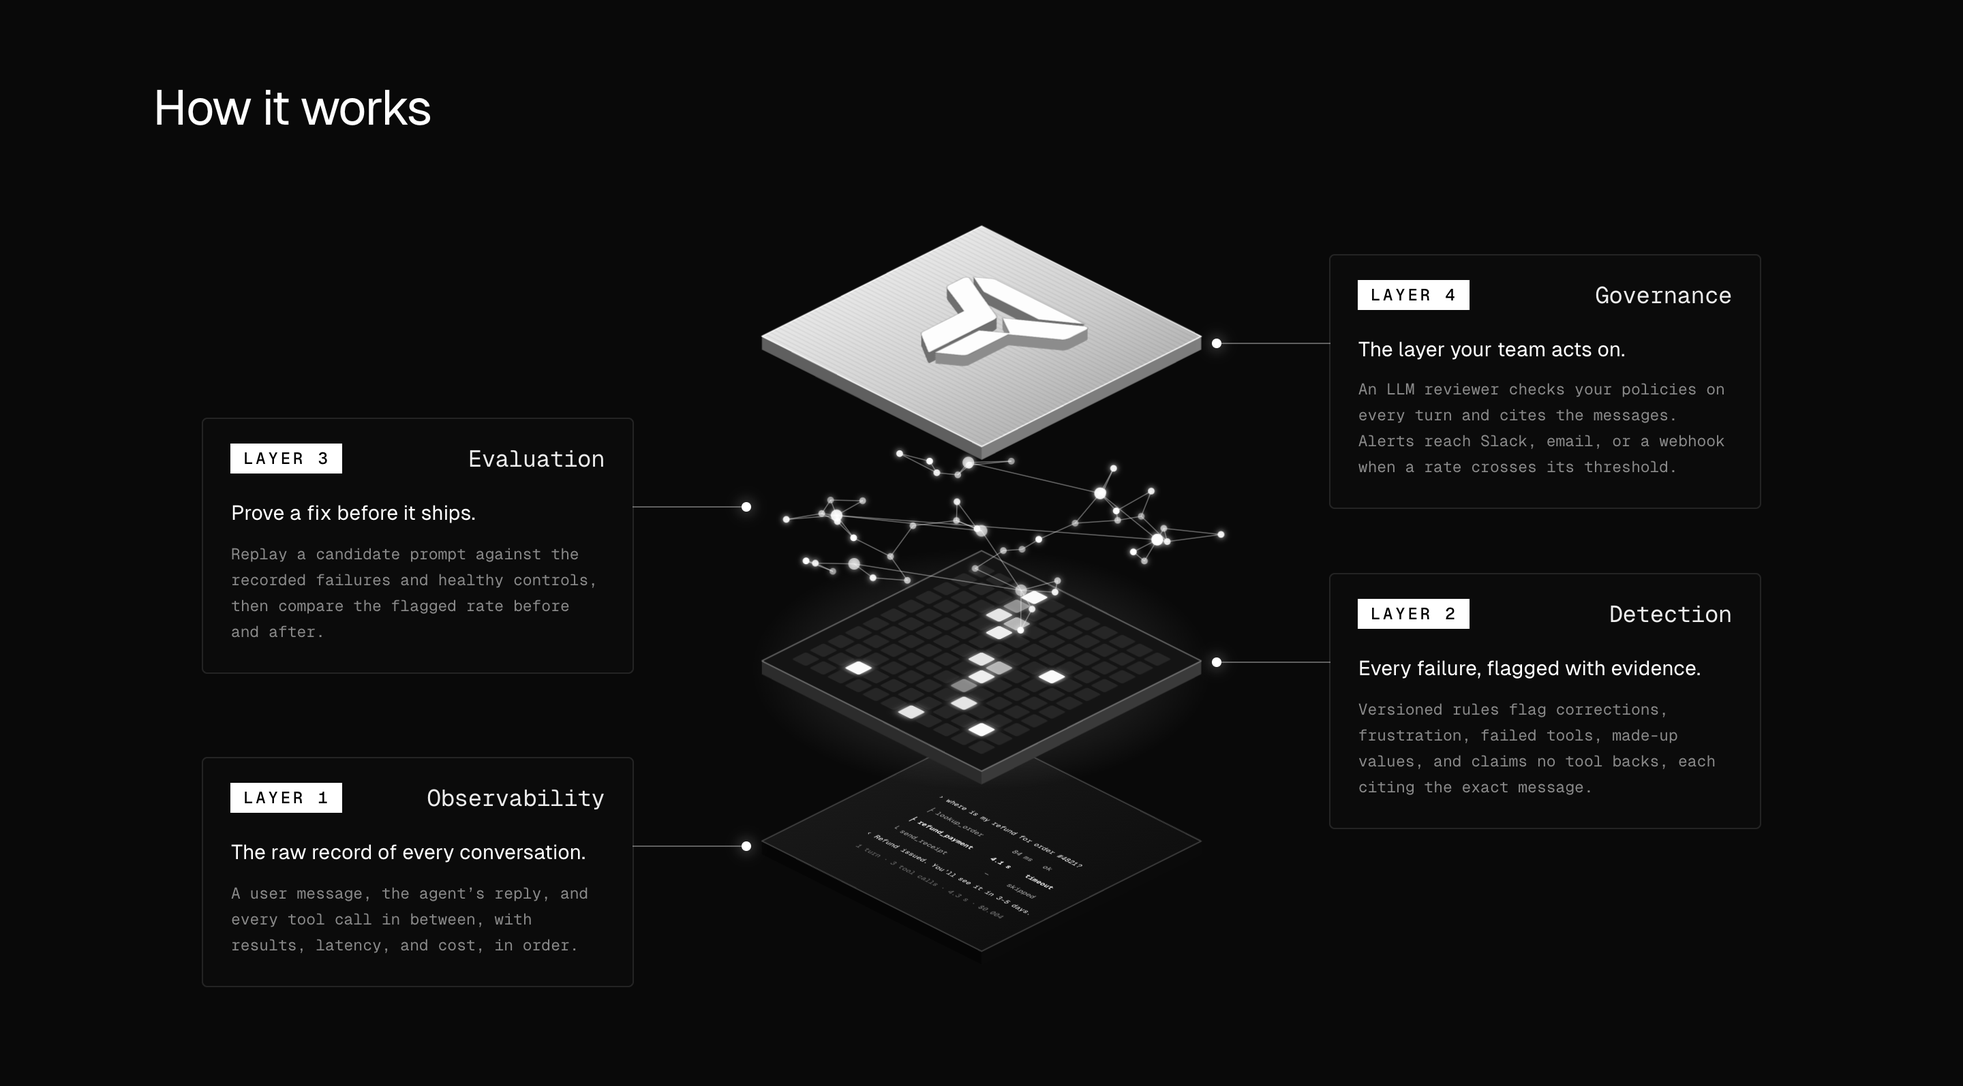
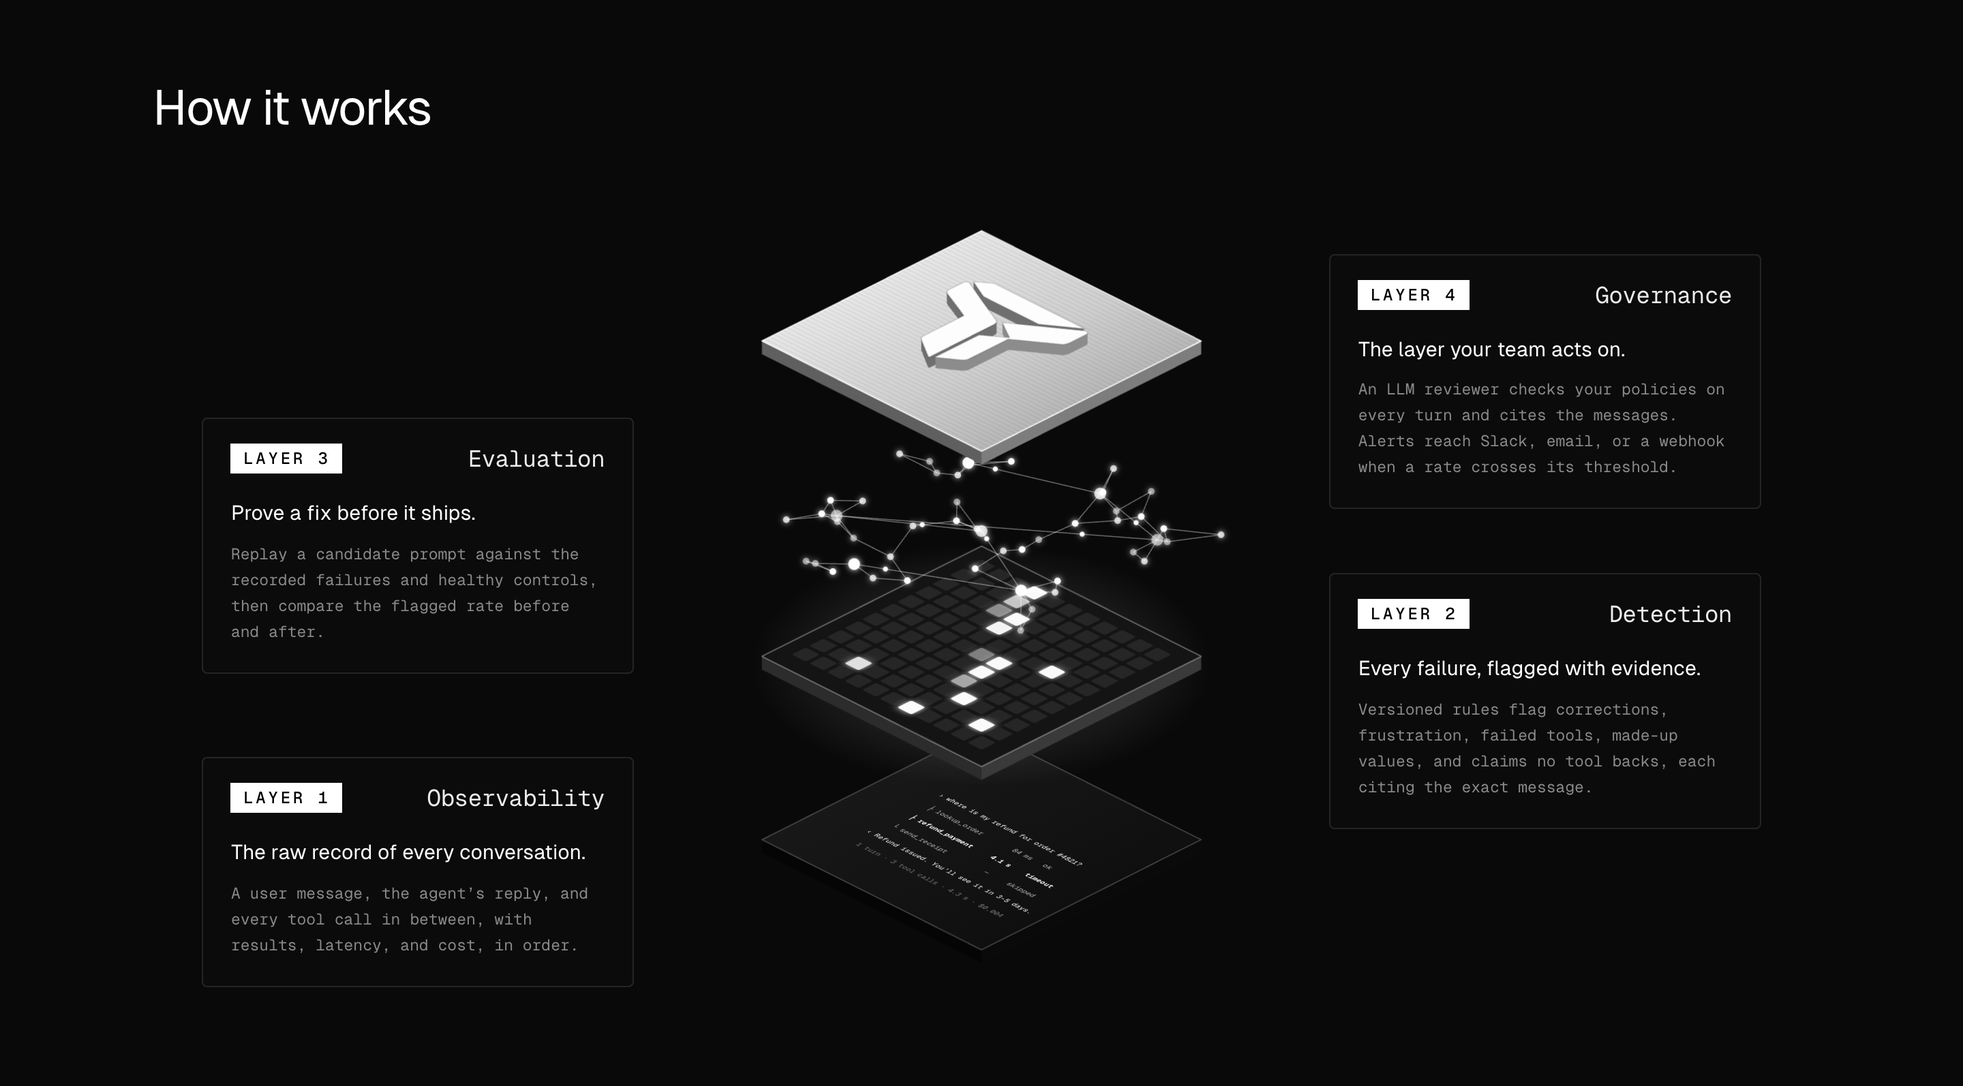
How it works: animate each layer, spread the stack on scroll, link hover
- As the section scrolls in, the four layers start bunched together and
  spread apart with the scroll (where scroll timelines exist).
- Once it's shown, each layer plays its part: the trace types out line
  by line and leaves a blinking cursor; a scan sweeps the grid and the
  failures light up one by one, then pulse; the network's lines draw
  themselves and pulses travel between its hubs; the Tervik mark rises
  out of the silver plate. The cards follow, and their connectors draw
  out to the plates.
- Hovering (or focusing) a card lifts its layer and dims the others;
  hovering a layer lights its card.
- Entrances are animations rather than transitions, so hover changes
  respond at once. Everything stays still with reduced motion.

diff --git a/apps/web/src/components/HowItWorks.tsx b/apps/web/src/components/HowItWorks.tsx
@@ -1,8 +1,14 @@
 // "How it works": Tervik's four layers as an exploded isometric stack, each
 // plate joined to a card that explains it. Drawn in SVG in a 2000 × 1040 design
 // space; the stack occupies the middle 760 units and the cards sit either side.
-import type { CSSProperties, ReactNode } from 'react';
+//
+// Motion: as the section scrolls in, the layers spread apart from a tight stack;
+// then each plays its own part (the trace types out, a scan finds the failures,
+// the network draws itself and carries pulses, the mark rises). Hovering a card
+// or a layer lifts that layer and highlights its card.
+import { useState, type CSSProperties, type ReactNode } from 'react';
 import { TERVIK_PANELS } from './TervikLogo';
+import { usePrefersReducedMotion } from '../hooks/useMotion';
 
 const CX = 1000;   // the stack's centre line
 const W = 265;     // half a plate's width on screen
@@ -10,18 +16,24 @@ const H = 133;     // half its depth on screen: a 2:1 isometric plate
 const T = 16;      // its thickness
 
 type Point = [number, number];
+type LayerNumber = 1 | 2 | 3 | 4;
 const points = (list: Point[]) => list.map(([x, y]) => `${x},${y}`).join(' ');
 
 /** Maps a plate's flat 100 × 100 surface onto its top face. */
 const face = (cy: number) => `matrix(${W / 100} ${H / 100} ${-W / 100} ${H / 100} ${CX} ${cy - H})`;
 /** A point on a plate's surface, in screen space. */
 const onFace = (cy: number, u: number, v: number): Point => [CX + (u - v) * W / 100, cy - H + (u + v) * H / 100];
+const rhombus = (cy: number) => points([[CX, cy - H], [CX + W, cy], [CX, cy + H], [CX - W, cy]]);
+
+const PLATE_Y: Record<LayerNumber, number> = { 1: 840, 2: 618, 3: 430, 4: 232 };
+// Before the stack spreads apart, every layer sits this far from its place, bunched around the middle.
+const GATHER: Record<LayerNumber, number> = { 1: -150, 2: -55, 3: 40, 4: 150 };
 
 function Plate({ cy, top, left, right, edge, children }: { cy: number; top: string; left: string; right: string; edge: string; children?: ReactNode }) {
   return <g>
     <polygon points={points([[CX - W, cy], [CX, cy + H], [CX, cy + H + T], [CX - W, cy + T]])} fill={left} />
     <polygon points={points([[CX, cy + H], [CX + W, cy], [CX + W, cy + T], [CX, cy + H + T]])} fill={right} />
-    <polygon points={points([[CX, cy - H], [CX + W, cy], [CX, cy + H], [CX - W, cy]])} fill={top} stroke={edge} strokeWidth="1.5" strokeLinejoin="round" />
+    <polygon points={rhombus(cy)} fill={top} stroke={edge} strokeWidth="1.5" strokeLinejoin="round" />
     <g transform={face(cy)} clipPath="url(#hiw-face)">{children}</g>
   </g>;
 }
@@ -36,18 +48,18 @@ const TRACE: [string, string][] = [
   ['  1 turn · 3 tool calls · 4.3 s · $0.004', 'is-meta'],
 ];
 
-// Layer 2: conversations as cells; the flagged ones light up.
+// Layer 2: conversations as cells; the flagged ones light up, in this order.
 const GRID = 11;
-const FLAGGED = new Set([3, 14, 25, 26, 37, 52, 60, 61, 72, 83, 95, 101, 108, 116]);
+const FLAGGED = [60, 25, 83, 14, 101, 37, 72, 3, 116, 52, 95, 26, 108, 61];
 
 // Layer 3: recorded cases and their replays, as a network. Seeded, so it never changes.
 function network() {
   let seed = 7;
   const random = () => (seed = (seed * 16807) % 2147483647) / 2147483647;
   const hubs: Point[] = [[28, 34], [72, 18], [106, 26], [22, 88], [62, 62], [98, 80], [48, 106]];
-  const nodes = hubs.flatMap(([u, v], hub) => [
-    { u, v, z: 0, hub: true, cluster: hub },
-    ...Array.from({ length: 6 }, () => ({ u: u + (random() - .5) * 34, v: v + (random() - .5) * 34, z: (random() - .5) * 34, hub: false, cluster: hub })),
+  const nodes = hubs.flatMap(([u, v]) => [
+    { u, v, z: 0, hub: true },
+    ...Array.from({ length: 6 }, () => ({ u: u + (random() - .5) * 34, v: v + (random() - .5) * 34, z: (random() - .5) * 34, hub: false })),
   ]);
   const edges: [number, number][] = [];
   nodes.forEach((node, i) => {
@@ -56,22 +68,35 @@ function network() {
     near.forEach(({ j }) => { if (!edges.some(([a, b]) => (a === i && b === j) || (a === j && b === i))) edges.push([i, j]); });
   });
   hubs.forEach((_, hub) => { if (hub) edges.push([(hub - 1) * 7, hub * 7]); });
-  return { nodes, edges };
+  const at = (index: number): Point => {
+    const [x, y] = onFace(PLATE_Y[3], nodes[index].u, nodes[index].v);
+    return [x, y + nodes[index].z];
+  };
+  return { nodes: nodes.map((node, index) => ({ ...node, at: at(index) })), edges: edges.map(([a, b]) => [at(a), at(b)] as [Point, Point]) };
 }
 const NETWORK = network();
+// The edges that carry a travelling pulse: the links between hubs, which come last.
+const PULSES = NETWORK.edges.slice(-6);
 
-const LAYERS = [
+const LAYERS: { n: LayerNumber; title: string; lead: string; text: string; side: 'left' | 'right' }[] = [
   { n: 4, title: 'Governance', lead: 'The layer your team acts on.', text: 'An LLM reviewer checks your policies on every turn and cites the messages. Alerts reach Slack, email, or a webhook when a rate crosses its threshold.', side: 'right' },
   { n: 3, title: 'Evaluation', lead: 'Prove a fix before it ships.', text: 'Replay a candidate prompt against the recorded failures and healthy controls, then compare the flagged rate before and after.', side: 'left' },
   { n: 2, title: 'Detection', lead: 'Every failure, flagged with evidence.', text: 'Versioned rules flag corrections, frustration, failed tools, made-up values, and claims no tool backs, each citing the exact message.', side: 'right' },
   { n: 1, title: 'Observability', lead: 'The raw record of every conversation.', text: 'A user message, the agent’s reply, and every tool call in between, with results, latency, and cost, in order.', side: 'left' },
-] as const;
+];
 
-const PLATE_Y = { 1: 840, 2: 618, 3: 430, 4: 232 };
+/** One layer of the stack, in the groups its motions need: appearing, spreading
+ * apart on scroll, lifting on hover, and floating. */
+function Layer({ n, active, onActive, children }: { n: LayerNumber; active: LayerNumber | null; onActive: (n: LayerNumber | null) => void; children: ReactNode }) {
+  return <g className={`hiw-layer ${active === n ? 'is-active' : ''}`} style={{ '--i': 4 - n, '--gather': `${GATHER[n]}px` } as CSSProperties}
+    onMouseEnter={() => onActive(n)} onMouseLeave={() => onActive(null)}>
+    <g className="hiw-spread"><g className="hiw-lift"><g className="hiw-float">{children}</g></g></g>
+  </g>;
+}
 
-/** The exploded stack on its own, for the page and for exporting as an image. */
-export function LayerStack({ className = '' }: { className?: string }) {
-  const graphY = PLATE_Y[3];
+/** The exploded stack on its own. */
+export function LayerStack({ active = null, onActive = () => {}, className = '' }: { active?: LayerNumber | null; onActive?: (n: LayerNumber | null) => void; className?: string }) {
+  const reduced = usePrefersReducedMotion();
   const markScale = .15;
   return <svg className={`hiw-stack ${className}`} viewBox="620 0 760 1040" role="img"
     aria-label="Tervik's four layers, stacked: observability at the bottom, then detection, evaluation, and governance on top">
@@ -90,68 +115,74 @@ export function LayerStack({ className = '' }: { className?: string }) {
       </filter>
     </defs>
 
-    {/* Layer 1: Observability, a trace printed on a dark plate. */}
-    <g className="hiw-layer" style={{ '--i': 3 } as CSSProperties}><g className="hiw-float">
+    {/* Layer 1: Observability. The trace types out, line by line. */}
+    <Layer n={1} active={active} onActive={onActive}>
       <Plate cy={PLATE_Y[1]} top="url(#hiw-dark)" left="#050505" right="#0a0a0a" edge="rgba(255,255,255,.2)">
-        {TRACE.map(([line, kind], index) => <text key={index} x="20" y={40 + index * 8.2} className={`hiw-trace ${kind}`}>{line}</text>)}
+        {TRACE.map(([line, kind], index) => <text key={index} x="20" y={40 + index * 8.2} className={`hiw-trace ${kind}`}
+          style={{ '--line': index } as CSSProperties}>{line}</text>)}
+        <rect className="hiw-caret" x="20" y={40 + TRACE.length * 8.2 - 2.6} width="1.6" height="3" />
       </Plate>
-    </g></g>
+    </Layer>
 
-    {/* Layer 2: Detection, conversations as cells with the failures lit. */}
-    <g className="hiw-layer" style={{ '--i': 2 } as CSSProperties}><g className="hiw-float">
-      <ellipse cx={CX} cy={PLATE_Y[2] + 10} rx={W * 1.05} ry={H * 1.1} fill="url(#hiw-halo)" />
+    {/* Layer 2: Detection. A scan sweeps the conversations, and the failures light up. */}
+    <Layer n={2} active={active} onActive={onActive}>
+      <ellipse className="hiw-halo" cx={CX} cy={PLATE_Y[2] + 10} rx={W * 1.05} ry={H * 1.1} fill="url(#hiw-halo)" />
       <Plate cy={PLATE_Y[2]} top="#141414" left="#2c2c2c" right="#3a3a3a" edge="rgba(255,255,255,.35)">
         {Array.from({ length: GRID * GRID }, (_, index) => {
-          const flagged = FLAGGED.has(index);
+          const order = FLAGGED.indexOf(index);
           return <rect key={index} x={6 + (index % GRID) * 8} y={6 + Math.floor(index / GRID) * 8} width="6.4" height="6.4" rx=".8"
-            className={flagged ? 'hiw-cell is-flagged' : 'hiw-cell'} style={flagged ? { '--d': `${(index % 7) * .4}s` } as CSSProperties : undefined} />;
+            className={order >= 0 ? 'hiw-cell is-flagged' : 'hiw-cell'}
+            style={{ '--k': (index % GRID) + Math.floor(index / GRID), ...(order >= 0 ? { '--o': order } : {}) } as CSSProperties} />;
         })}
       </Plate>
-    </g></g>
+    </Layer>
 
-    {/* Layer 3: Evaluation, recorded cases and their replays as a network. */}
-    <g className="hiw-layer" style={{ '--i': 1 } as CSSProperties}><g className="hiw-float">
-      {NETWORK.edges.map(([a, b], index) => {
-        const [x1, y1] = onFace(graphY, NETWORK.nodes[a].u, NETWORK.nodes[a].v);
-        const [x2, y2] = onFace(graphY, NETWORK.nodes[b].u, NETWORK.nodes[b].v);
-        return <line key={index} x1={x1} y1={y1 + NETWORK.nodes[a].z} x2={x2} y2={y2 + NETWORK.nodes[b].z} className="hiw-edge" />;
-      })}
+    {/* Layer 3: Evaluation. The network draws itself, then pulses travel along it. */}
+    <Layer n={3} active={active} onActive={onActive}>
+      <polygon points={rhombus(PLATE_Y[3])} fill="transparent" />
+      {NETWORK.edges.map(([[x1, y1], [x2, y2]], index) => <line key={index} x1={x1} y1={y1} x2={x2} y2={y2} pathLength={1}
+        className="hiw-edge" style={{ '--e': index } as CSSProperties} />)}
       <g filter="url(#hiw-glow)">
-        {NETWORK.nodes.map((node, index) => {
-          const [x, y] = onFace(graphY, node.u, node.v);
-          return <circle key={index} cx={x} cy={y + node.z} r={node.hub ? 7 : 4} className={node.hub ? 'hiw-node is-hub' : 'hiw-node'}
-            style={{ '--d': `${(index % 6) * .55}s` } as CSSProperties} />;
-        })}
+        {NETWORK.nodes.map((node, index) => <circle key={index} cx={node.at[0]} cy={node.at[1]} r={node.hub ? 7 : 4}
+          className={node.hub ? 'hiw-node is-hub' : 'hiw-node'} style={{ '--d': `${(index % 6) * .55}s`, '--e': index * .6 } as CSSProperties} />)}
+        {/* Each pulse stays hidden until it starts moving, or it would sit at the origin. */}
+        {!reduced && PULSES.map(([[x1, y1], [x2, y2]], index) => <circle key={`pulse-${index}`} r="3" className="hiw-pulse" visibility="hidden">
+          <set attributeName="visibility" to="visible" begin={`${1.5 + index * .45}s`} />
+          <animateMotion dur={`${2.2 + (index % 3) * .5}s`} begin={`${1.5 + index * .45}s`} repeatCount="indefinite" path={`M${x1},${y1} L${x2},${y2}`} />
+        </circle>)}
       </g>
-    </g></g>
+    </Layer>
 
-    {/* Layer 4: Governance, a silver plate with the Tervik mark raised on it. */}
-    <g className="hiw-layer" style={{ '--i': 0 } as CSSProperties}><g className="hiw-float">
+    {/* Layer 4: Governance. The Tervik mark rises out of a silver plate. */}
+    <Layer n={4} active={active} onActive={onActive}>
       <Plate cy={PLATE_Y[4]} top="url(#hiw-silver)" left="#5f5f5f" right="#7d7d7d" edge="rgba(255,255,255,.9)">
         <rect width="100" height="100" fill="url(#hiw-brushed)" />
       </Plate>
       {Array.from({ length: 14 }, (_, step) => (
-        <g key={step} transform={`translate(0 ${-step})`}>
+        <g key={step} className="hiw-rise" style={{ '--s': step } as CSSProperties}>
           <g transform={face(PLATE_Y[4])}><g transform={`translate(${50 - 345 * markScale / 2} ${50 - 323 * markScale / 2}) scale(${markScale})`}>
             {TERVIK_PANELS.map((d, index) => <path key={index} d={d} fill={step === 13 ? '#fdfdfd' : index === 1 ? '#8c8c8c' : '#6f6f6f'}
               stroke={step === 13 ? 'rgba(0,0,0,.18)' : 'none'} strokeWidth="3" />)}
           </g></g>
         </g>
       ))}
-    </g></g>
+    </Layer>
   </svg>;
 }
 
 /** The section: the stack in the middle, a card for each layer either side. */
 export function HowItWorks() {
+  const [active, setActive] = useState<LayerNumber | null>(null);
   return <section id="how-it-works" className="lp-section hiw-section">
     <div className="lp-container">
       <h2 className="lp-heading hiw-title">
         <span className="lp-mask" data-reveal="rise"><span>How it works</span></span>
       </h2>
-      <div className="hiw" data-reveal="fade">
-        <LayerStack />
-        {LAYERS.map(layer => <article key={layer.n} className={`hiw-card is-${layer.side}`} style={{ '--y': `${(PLATE_Y[layer.n] / 1040) * 100}%`, '--i': 4 - layer.n } as CSSProperties}>
+      <div className={`hiw ${active ? 'has-active' : ''}`} data-reveal="fade">
+        <LayerStack active={active} onActive={setActive} />
+        {LAYERS.map(layer => <article key={layer.n} tabIndex={0} className={`hiw-card is-${layer.side} ${active === layer.n ? 'is-active' : ''}`}
+          style={{ '--y': `${(PLATE_Y[layer.n] / 1040) * 100}%`, '--i': 4 - layer.n } as CSSProperties}
+          onMouseEnter={() => setActive(layer.n)} onMouseLeave={() => setActive(null)} onFocus={() => setActive(layer.n)} onBlur={() => setActive(null)}>
           <header><span className="hiw-tag">Layer {layer.n}</span><h3>{layer.title}</h3></header>
           <p className="hiw-lead">{layer.lead}</p>
           <p className="hiw-text">{layer.text}</p>

diff --git a/apps/web/src/styles.css b/apps/web/src/styles.css
@@ -2547,19 +2547,69 @@ body:has(.m-page) { min-width: 320px; }
 .hiw-trace.is-prompt { fill: #e5e5e5; }
 .hiw-trace.is-error { fill: #fff; font-weight: 700; }
 .hiw-trace.is-meta { fill: #6b6b6b; }
+.hiw-caret { fill: #fff; animation: lpBlink 1s steps(1) infinite; }
 .hiw-cell { fill: #262626; }
-.hiw-cell.is-flagged { fill: #fafafa; filter: drop-shadow(0 0 1.5px rgba(255, 255, 255, .9)); animation: hiwPulse 3.2s ease-in-out var(--d, 0s) infinite; }
-.hiw-edge { stroke: rgba(255, 255, 255, .4); stroke-width: 1.2; }
-.hiw-node { fill: #fff; animation: hiwTwinkle 3.3s ease-in-out var(--d, 0s) infinite; }
+.hiw-cell.is-flagged { fill: #fafafa; filter: drop-shadow(0 0 1.5px rgba(255, 255, 255, .9)); }
+.hiw-edge { stroke: rgba(255, 255, 255, .4); stroke-width: 1.2; stroke-dasharray: 1; }
+.hiw-node { fill: #fff; transform-box: fill-box; transform-origin: center; animation: hiwTwinkle 3.3s ease-in-out var(--d, 0s) infinite; }
+.hiw-pulse { fill: #fff; }
+.hiw-rise { transform: translateY(calc(var(--s) * -1px)); }
 .hiw-float { animation: hiwFloat 7s ease-in-out infinite; animation-delay: calc(var(--i, 0) * -1.6s); }
+
+/* Hovering a card or a layer lifts that layer, dims the rest, and lights its card. */
+.hiw-spread { transition: opacity .35s ease; }
+.hiw-lift { transition: transform .5s var(--m-ease-out-expo); }
+.hiw-layer.is-active .hiw-lift { transform: translateY(-16px); }
+.hiw.has-active .hiw-layer:not(.is-active) .hiw-spread { opacity: .3; }
+.hiw-card { transition: opacity .3s ease, border-color .3s ease, background-color .3s ease; }
+.hiw-card.is-active { border-color: rgba(255, 255, 255, .45); background-color: #121212; }
+.hiw-card.is-active::before { background: #fff; }
+.hiw-card.is-active::after { box-shadow: 0 0 18px #fff; }
+.hiw.has-active .hiw-card:not(.is-active) { opacity: .45; }
+.hiw-card:focus-visible { outline: 2px solid #fff; outline-offset: 3px; }
+.hiw-card.is-left::before { transform-origin: left; }
+.hiw-card.is-right::before { transform-origin: right; }
+
+/* When the section is revealed: the layers appear top-down, the trace types out,
+   a scan sweeps the grid and the failures light up, the network draws itself,
+   the mark rises, then the cards and their connectors follow. */
+[data-motion] .hiw:not([data-shown]) :is(.hiw-layer, .hiw-card, .hiw-trace) { opacity: 0; }
+.hiw[data-shown] .hiw-layer { animation: hiwDrop 1s var(--m-ease-out-expo) calc(var(--i, 0) * 140ms) backwards; }
+.hiw[data-shown] .hiw-trace { animation: hiwType .55s steps(26) calc(1s + var(--line) * .4s) backwards; }
+.hiw[data-shown] .hiw-caret { animation: hiwHidden 3.4s steps(1) backwards, lpBlink 1s steps(1) 3.4s infinite; }
+.hiw[data-shown] .hiw-cell { animation: hiwScan .9s ease-out calc(.7s + var(--k) * 45ms); }
+.hiw[data-shown] .hiw-cell.is-flagged { animation: hiwFlagOn .6s ease-out calc(1.7s + var(--o) * 120ms) backwards, hiwPulse 3.2s ease-in-out calc(3.8s + var(--o) * .23s) infinite; }
+.hiw[data-shown] .hiw-edge { animation: hiwDraw .9s ease-out calc(.6s + var(--e) * 25ms) backwards; }
+.hiw[data-shown] .hiw-node { animation: hiwNodeIn .5s var(--m-ease-spring) calc(.6s + var(--e) * 25ms) backwards, hiwTwinkle 3.3s ease-in-out var(--d, 0s) infinite; }
+.hiw[data-shown] .hiw-rise { animation: hiwRise 1.2s var(--m-ease-out-expo) .45s backwards; }
+.hiw[data-shown] .hiw-card { animation: hiwCardIn .8s var(--m-ease-out-expo) calc(var(--i, 0) * 140ms + .5s) backwards; }
+.hiw[data-shown] .hiw-card::before { animation: hiwLine .6s ease-out calc(var(--i, 0) * 140ms + 1s) backwards; }
+.hiw[data-shown] .hiw-card::after { animation: hiwDot .4s var(--m-ease-spring) calc(var(--i, 0) * 140ms + 1.5s) backwards; }
+@keyframes hiwDrop { from { opacity: 0; transform: translateY(-28px); } }
+@keyframes hiwType { from { clip-path: inset(-20% 100% -20% 0); } to { clip-path: inset(-20% 0 -20% 0); } }
+@keyframes hiwHidden { from { opacity: 0; } }
+@keyframes hiwScan { 30% { fill: #9a9a9a; } }
+@keyframes hiwFlagOn { from { fill: #262626; } }
+@keyframes hiwDraw { from { stroke-dashoffset: 1; } to { stroke-dashoffset: 0; } }
+@keyframes hiwNodeIn { from { transform: scale(0); } }
+@keyframes hiwRise { from { transform: translateY(0); } }
+@keyframes hiwCardIn { from { opacity: 0; transform: translateY(12px); } }
+@keyframes hiwLine { from { transform: scaleX(0); } }
+@keyframes hiwDot { from { opacity: 0; transform: scale(0); } }
 @keyframes hiwFloat { 50% { transform: translateY(-7px); } }
 @keyframes hiwPulse { 50% { opacity: .45; } }
 @keyframes hiwTwinkle { 50% { opacity: .5; } }
-/* On scroll: the layers drop into place from the top down, then the cards follow. */
-.hiw-layer { transition: opacity .8s ease, transform 1s var(--m-ease-out-expo); transition-delay: calc(var(--i, 0) * 140ms); }
-[data-motion] .hiw:not([data-shown]) .hiw-layer { opacity: 0; transform: translateY(-40px); }
-.hiw-card { transition: opacity .7s ease, transform .9s var(--m-ease-out-expo); transition-delay: calc(var(--i, 0) * 140ms + .5s); }
-[data-motion] .hiw:not([data-shown]) .hiw-card { opacity: 0; transform: translateY(12px); }
+
+/* Where scroll timelines exist, the layers start bunched together and spread
+   apart as the section scrolls into view. */
+@supports (animation-timeline: view()) {
+  @media (prefers-reduced-motion: no-preference) {
+    .hiw { view-timeline: --hiw block; }
+    .hiw-spread { animation: hiwSpread linear both; animation-timeline: --hiw; animation-range: entry 5% cover 42%; }
+  }
+}
+@keyframes hiwSpread { from { transform: translateY(var(--gather, 0)); } to { transform: none; } }
+
 @media (max-width: 1100px) {
   .hiw { display: grid; gap: 14px; aspect-ratio: auto; }
   .hiw-stack { position: relative; left: auto; width: min(100%, 520px); height: auto; margin: 0 auto 8px; aspect-ratio: 760 / 1040; }
@@ -2567,7 +2617,8 @@ body:has(.m-page) { min-width: 320px; }
   .hiw-card::before, .hiw-card::after { display: none; }
 }
 @media (prefers-reduced-motion: reduce) {
-  .hiw-float, .hiw-cell.is-flagged, .hiw-node { animation: none; }
+  .hiw-float, .hiw-node, .hiw-caret, .hiw[data-shown] :is(.hiw-layer, .hiw-trace, .hiw-caret, .hiw-cell, .hiw-edge, .hiw-node, .hiw-rise, .hiw-card),
+  .hiw[data-shown] .hiw-card::before, .hiw[data-shown] .hiw-card::after { animation: none; }
 }
 
 /* ===== Motion: entrances and scroll reveals across the landing page =====
